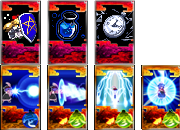
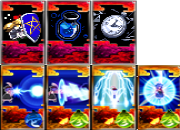
card image change

diff --git a/Project/test/Deck.py b/Project/test/Deck.py
@@ -59,24 +59,24 @@ class PlayDeck:
                 for i in range(1, 8):
                     if PlayerDeck[spellcheak%12] == i:
                         if i < 5:
-                            self.Deckimage.draw(self.x, self.y)
+                            self.Deckimage.draw(self.x-5, self.y)
                             self.reimuDeck.clip_draw(45*(i-1), 0, 45, 65, self.x, self.y)
                         else:
-                            self.Deckimage.draw(self.x, self.y)
+                            self.Deckimage.draw(self.x-5, self.y)
                             self.reimuDeck.clip_draw(45 * (i - 5), 65, 45, 65, self.x, self.y)
                     if PlayerDeck[(spellcheak+1)%12] == i:
                         if i < 5:
-                            self.Deckimage.draw(self.x + 100, self.y)
+                            self.Deckimage.draw(self.x + 95, self.y)
                             self.reimuDeck.clip_draw(45*(i-1), 0, 45, 65, self.x+ 100, self.y)
                         else:
-                            self.Deckimage.draw(self.x+ 100, self.y)
+                            self.Deckimage.draw(self.x+ 95, self.y)
                             self.reimuDeck.clip_draw(45 * (i - 5), 65, 45, 65, self.x+ 100, self.y)
                     if PlayerDeck[(spellcheak+2)%12] == i:
                         if i < 5:
-                            self.Deckimage.draw(self.x + 200, self.y)
+                            self.Deckimage.draw(self.x + 195, self.y)
                             self.reimuDeck.clip_draw(45*(i-1), 0, 45, 65, self.x + 200, self.y)
                         else:
-                            self.Deckimage.draw(self.x + 200, self.y)
+                            self.Deckimage.draw(self.x + 195, self.y)
                             self.reimuDeck.clip_draw(45 * (i - 5), 65, 45, 65, self.x + 200, self.y)
             if CharacterSelection.character==1:
                 for i in range(0,12):
